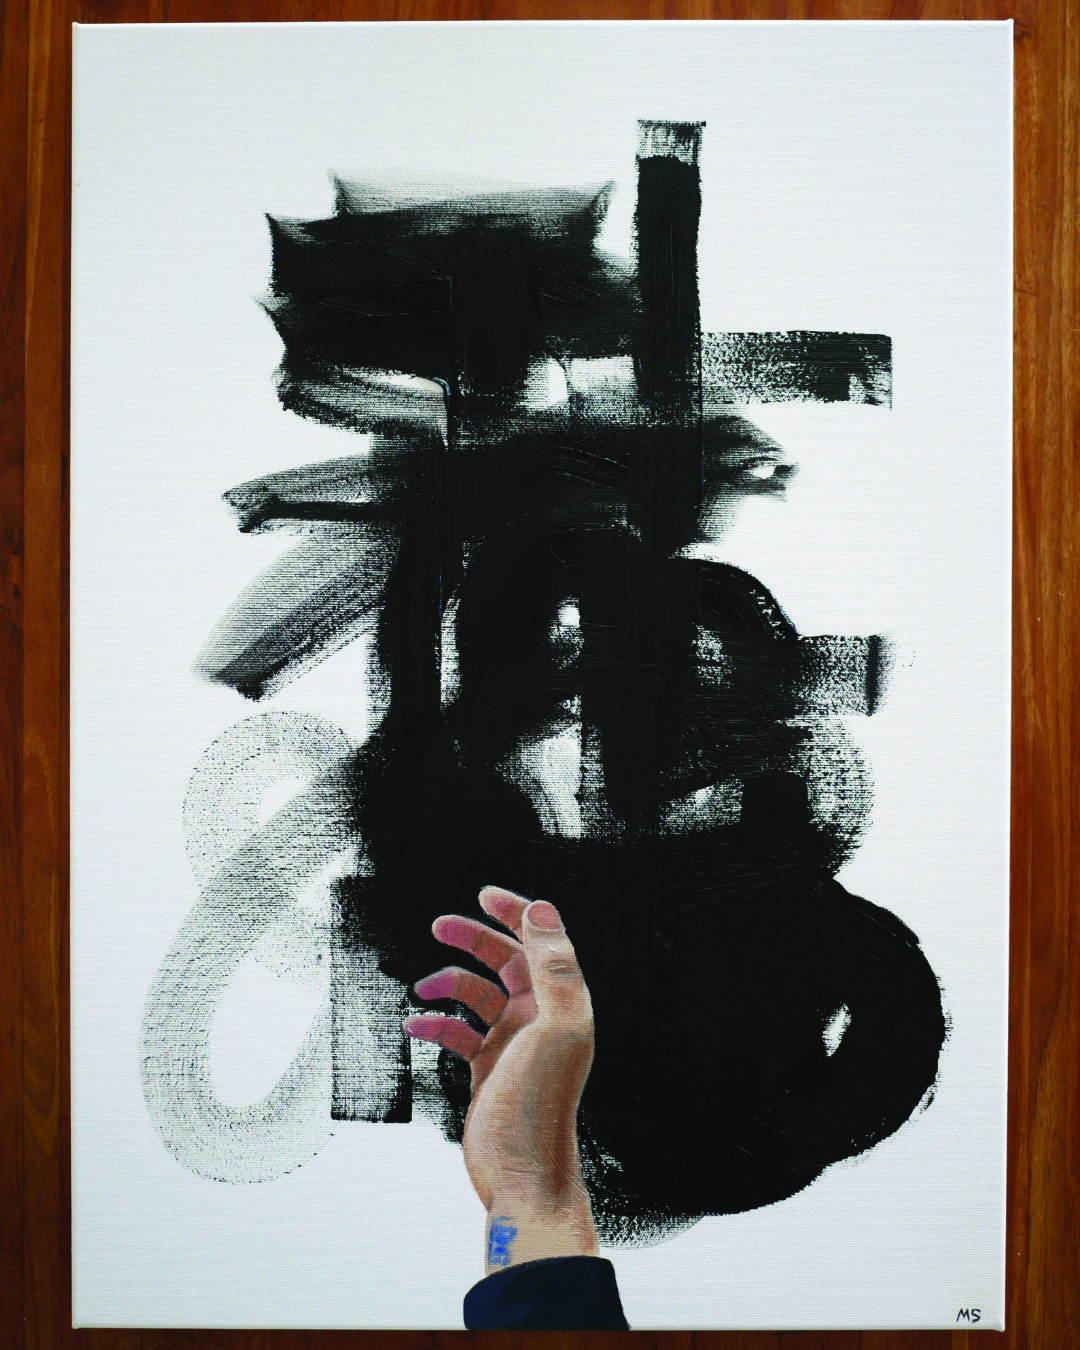
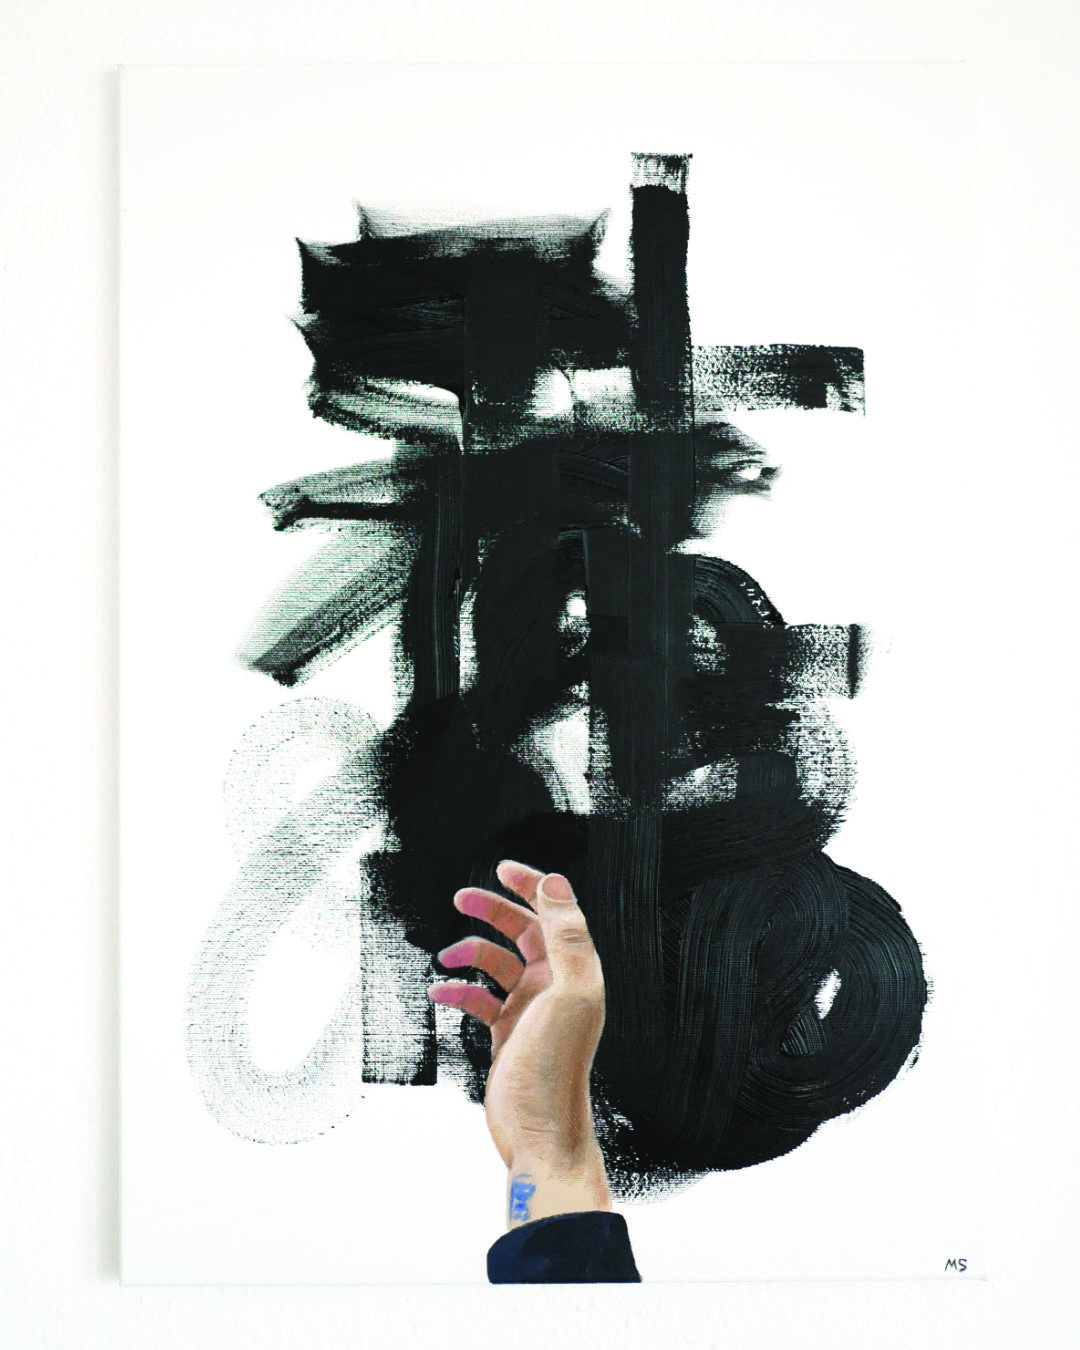
progress

diff --git a/collections/_neu/inspektion.md b/collections/_neu/inspektion.md
@@ -1,0 +1,14 @@
+---
+layout: project-right # alternative layouts: project, project-left, project-right, project-top
+title: "Inspektion"
+description: false
+year: 2023
+weight: 3
+thumbnail: "/assets/images/gen/inspektion.jpg"
+image: "/assets/images/gen/inspektion.jpg"
+categories: []
+format: "Öl auf Leinwand 70 x 50cm"
+gallery:
+  - image: "/assets/images/gen/inspektion2.jpg"
+---
+
